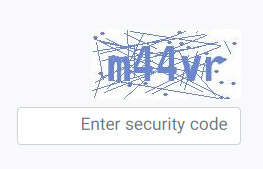
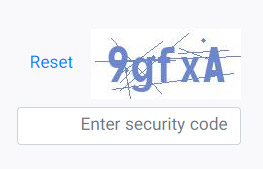
V1.1.0
Added support of Config file.
Added waves to captcha.
Some improvements & one bug fix.
README.md & screenshots updated.

Changed region(s): [[0.3346, 0.1775, 0.9125, 0.5621], [0.0913, 0.3254, 0.2738, 0.4142], [0.7605, 0.5325, 0.8821, 0.5917]]

diff --git a/ui/captcha/captcha.html b/ui/captcha/captcha.html
@@ -1,10 +1,11 @@
 <div class="row captcha">
-    <div class="col-md-12 mb-2 captcha-code">
+    <div class="col-md-12 mb-2">
         {{@captcha.code | raw}}
+        <button class="btn btn-link" onclick="this.previousElementSibling.src=this.previousElementSibling.src">Reset</button>
     </div>
-    <div class="col-md-4 col-sm-6">
+    <div class="col-lg-4 col-md-8">
         <div class="form-group">
-          <input type="text" name="captcha-entered-code" id="author" class="form-control captcha-text" placeholder="Enter security code" required>
+            <input type="text" name="{{@captcha.key}}" class="form-control" placeholder="Enter security code" required>
         </div>
     </div>
 </div>

diff --git a/lib/captcha.php b/lib/captcha.php
@@ -2,54 +2,74 @@
 
 /**
  * @package F3 Captcha
- * @version 1.0
- * @author Mohammad Yaghobi <info@darbeweb.ir>
+ * @version 1.1.0
+ * @link http://github.com/myaghobi/f3-captcha Github
+ * @author Mohammad Yaghobi <m.yaghobi.abc@gmail.com>
  * @copyright Copyright (c) 2020, Mohammad Yaghobi
  * @license http://www.gnu.org/licenses/gpl-3.0.html GPL v3
  */
 
 class Captcha extends \Prefab {
-  private $codeLength = 5;
-  private static $caseSensitive = true;
-  private $captchaWidth = 150;
-  private $captchaHeight = 70;
-  private $captchaFont = 'monofont.ttf';
-  private $captchaFontScale = 0.65;
-  private $color = "6d87cf";
-  private $letters = '123456789abcdefghijklmnopkrstuvwxyz';
-  private static $sessionKey = 'captcha_code';
-  
+  private $defaultLength = 5;
+  private static $defaultCaseSensitiveMode = true;
+  private $defaultWidth = 150;
+  private $defaultHeight = 70;
+  private $defaultFont = 'monofont.ttf';
+  private $defaultFontScale = 0.45;
+  private $defaultWavesEnable = false;
+  private $defaultLetters = '123456789abcdefghijklmnopkrstuvwxyz';
+  private static $defaultKey = 'captcha_code';
+
   /**
    * generate the output
    *
    * @return string
    */
-  function serve() {
-    $f3=Base::instance();
-    $f3->set('captcha.code', '<img src="'.$f3->get('BASE').'/captcha" width="'.$this->captchaWidth.'" height="'.$this->captchaHeight.'" >');
+  function serve($f3=null) {
+    if (!$f3) {
+      $f3=Base::instance();
+    }
+    
+    $width = $f3->get('captcha.WIDTH')?:$this->defaultWidth;
+    $height = $f3->get('captcha.HEIGHT')?:$this->defaultHeight;
+    $key = $f3->get('captcha.KEY')?:self::$defaultKey;
+
+    $f3->set('captcha.code', '<img src="' . $f3->get('BASE') . '/captcha" width="' . $width . '" height="' . $height . '" >');
+    $f3->set('captcha.key', $key);
     $output = \Template::instance()->render('captcha/captcha.html');
     $f3->clear('captcha');
     return $output;
   }
-  
-  
+
+
   /**
    * make the captcha image
    *
    * @return void
    */
-  function makeCaptchaImage() {
-    $f3=Base::instance();
-    $this->makeCaptchaCode($this->codeLength);
-    $captcha = $f3->get('SESSION.'.self::$sessionKey);
+  function makeCaptchaImage($f3=null) {
+    if (!$f3) {
+      $f3=Base::instance();
+    }
+    $this->makeCaptchaCode($f3);
+    
+    $width = $f3->get('captcha.WIDTH')?:$this->defaultWidth;
+    $height = $f3->get('captcha.HEIGHT')?:$this->defaultHeight;
+    $font = $f3->get('captcha.FONT')?:$this->defaultFont;
+    $fontScale = $f3->get('captcha.FONT_SCALE')?:$this->defaultFontScale;
+    $waves = $f3->get('captcha.WAVES')?:$this->defaultWavesEnable;
+    $key = $f3->get('captcha.KEY')?:self::$defaultKey;
 
-    $fontSize = $this->captchaHeight * $this->captchaFontScale;
-    $fontAddress = realpath($f3->get('UI')).'/fonts/'.$this->captchaFont;
+    $captcha = $f3->get('SESSION.' . $key);
 
-    $captchaImage = @imagecreate($this->captchaWidth, $this->captchaHeight);
+    $fontSize = $height * $fontScale;
+    $fontAddress = realpath($f3->get('UI')) . '/fonts/' . $font;
 
+    $captchaImage = @imagecreate($width, $height);
+
+    $color = '6d87cf';
     $backgroundColor = imagecolorallocate($captchaImage, 255, 255, 255);
-    $rgbColor = $this->hextorgb($this->color);
+    $rgbColor = $this->hextorgb($color);
     $textColor = imagecolorallocate(
       $captchaImage,
       $rgbColor['red'],
@@ -57,94 +77,157 @@ class Captcha extends \Prefab {
       $rgbColor['blue']
     );
 
-    $dotsNum = mt_rand(10, 40);
+    $dotsNum = mt_rand(0, 5);
     for ($i = 0; $i < $dotsNum; $i++) {
       imagefilledellipse(
         $captchaImage,
-        mt_rand(0, $this->captchaWidth),
-        mt_rand(0, $this->captchaHeight),
+        mt_rand(0, $width),
+        mt_rand(0, $height),
+        5,
         4,
-        3,
         $textColor
       );
     }
 
-    $linesNum = mt_rand(10, 40);
+    $linesNum = mt_rand(5, 10);
     for ($i = 0; $i < $linesNum; $i++) {
       imageline(
         $captchaImage,
-        mt_rand(0, $this->captchaWidth),
-        mt_rand(0, $this->captchaHeight),
-        mt_rand(0, $this->captchaWidth),
-        mt_rand(0, $this->captchaHeight),
+        mt_rand(0, $width),
+        mt_rand(0, $height),
+        mt_rand(0, $width),
+        mt_rand(0, $height),
         $textColor
       );
     }
 
     $text = imagettfbbox(
-      $fontSize, 0, $fontAddress, $captcha
+      $fontSize,
+      0,
+      $fontAddress,
+      $captcha
     );
 
-    $x = ($this->captchaWidth - $text[4]) / 2;
-    $y = ($this->captchaHeight - $text[5]) / 2;
+    $x = ($width - $text[4]) / 2;
+    $y = ($height - $text[5]) / 2;
 
     imagettftext(
-      $captchaImage, $fontSize, 0, $x, $y, $textColor, $fontAddress, $captcha
+      $captchaImage,
+      $fontSize,
+      0,
+      $x,
+      $y,
+      $textColor,
+      $fontAddress,
+      $captcha
     );
 
     ob_get_clean();
     ob_clean();
 
+    if ($waves) {
+      $this->wave_region($captchaImage, 0, 0, $width, $height, mt_rand(0, 7), 10);
+    }
+
     header('Content-Type: image/jpeg');
     imagejpeg($captchaImage);
     imagedestroy($captchaImage);
   }
-  
-  
+
+
+  /**
+   * wave_region
+   * Displays <a href="https://www.php.net/manual/en/function.imagecopy.php#72393">php.net</a>
+   * @link https://www.php.net/manual/en/function.imagecopy.php#72393 php.net
+   *
+   * @param  resource $img
+   * @param  int $x
+   * @param  int $y
+   * @param  int $width
+   * @param  int $height
+   * @param  float $amplitude
+   * @param  int $period
+   * @return void
+   */
+  function wave_region($img, $x, $y, $width, $height, $amplitude = 4.5, $period = 30) {
+    // Make a copy of the image twice the size
+    $mult = 2;
+    $img2 = imagecreatetruecolor($width * $mult, $height * $mult);
+    imagecopyresampled($img2, $img, 0, 0, $x, $y, $width * $mult, $height * $mult, $width, $height);
+
+    // Wave it
+    for ($i = 0; $i < ($width * $mult); $i += 2) {
+      imagecopy(
+        $img2,
+        $img2,
+        $x + $i - 2,
+        $y + sin($i / $period) * $amplitude,
+        $x + $i,
+        $y,
+        2,
+        ($height * $mult)
+      );
+    }
+
+    // Resample it down again
+    imagecopyresampled($img, $img2, $x, $y, 0, 0, $width, $height, $width * $mult, $height * $mult);
+    imagedestroy($img2);
+  }
+
   /**
    * make random code for captcha
    *
    * @param  integer $charactersLength
    * @return string
    */
-  function makeCaptchaCode($charactersLength) {
-    if (empty($charactersLength)) {
-      $charactersLength = $this->codeLength;
+  function makeCaptchaCode($f3=null) {
+    if (!$f3) {
+      $f3=Base::instance();
     }
-    $captcha='';
-    $letters = $this->letters;
+
+    $charactersLength = $f3->get('captcha.LENGTH')?:$this->defaultLength;
+    $caseSensitive = $f3->get('captcha.CASE_SENSITIVE')?:self::$defaultCaseSensitiveMode;
+    $key = $f3->get('captcha.KEY')?:self::$defaultKey;
+
+    $captcha = '';
+    $letters = $f3->get('captcha.LETTERS')?:$this->defaultLetters;
     $lettersLength = strlen($letters);
-    for ($i=0; $i<$charactersLength; $i++) {
-      $char = substr($this->letters, mt_rand(0, $lettersLength - 1), 1);
-      if (self::$caseSensitive && mt_rand(0, 10)<=3) {
+    for ($i = 0; $i < $charactersLength; $i++) {
+      $char = substr($letters, mt_rand(0, $lettersLength - 1), 1);
+      if ($caseSensitive && mt_rand(0, 10) <= 3) {
         $char = strtoupper($char);
       }
       $captcha .= $char;
     }
 
-    $f3=Base::instance();
-    $f3->set('SESSION.'.self::$sessionKey, str_replace(' ', '', $captcha));
+    $f3->set('SESSION.' . $key, str_replace(' ', '', $captcha));
     return $captcha;
   }
-  
+
   /**
    * verify the user entered security code
    *
    * @return boolean
    */
-  static function verify() {
-    $f3=Base::instance();
-    $enteredCode = $f3->get('POST.captcha-entered-code');
-    $savedCode = $f3->get('SESSION.'.self::$sessionKey);
+  static function verify($f3=null) {
+    if (!$f3) {
+      $f3=Base::instance();
+    }
+    
+    $key = $f3->get('captcha.KEY')?:self::$defaultKey;
+    $caseSensitive = $f3->get('captcha.CASE_SENSITIVE')?:self::$defaultCaseSensitiveMode;
 
-    if (self::$caseSensitive) {
+    $enteredCode = $f3->get('POST.'.$key);
+    $savedCode = $f3->get('SESSION.' . $key);
+
+    if ($caseSensitive) {
       return $savedCode == trim($enteredCode);
     }
 
-    return strcasecmp($savedCode, trim($enteredCode))==0;
+    return strcasecmp($savedCode, trim($enteredCode)) == 0;
   }
 
-    
+
   /**
    * hex color to rgb color
    *

diff --git a/README.md b/README.md
@@ -1,9 +1,23 @@
 # F3 Captcha
 A better captcha for Fat-Free Framework.
 
-The default captcha template contains the bootstrap class, which can look like this:
+![screenshot-english](screenshots/shot1.jpg?raw=true "F3 Captcha Screentshot-English Font") ![screenshot-persian](screenshots/shot2.jpg?raw=true "F3 Captcha Screentshot-Persian Font")
 
-![screenshot1](screenshots/shot1.jpg?raw=true "F3 Captcha Screentshot 1") ![screenshot2](screenshots/shot2.jpg?raw=true "F3 Captcha Screentshot 2")
+## Config
+This plugin is configurable via config file:
+``` ini
+[captcha]
+LENGTH=5
+CASE_SENSITIVE=TRUE
+WIDTH=150
+HEIGHT=70
+FONT=monofont.ttf
+FONT_SCALE=0.65
+WAVES=TRUE
+LETTERS=123456789abcdefghijklmnopkrstuvwxyz
+KEY=captcha_code
+```
+The above config is the default, you can ignore/remove each one you don't need to change.
 
 ## Usage
 
@@ -43,10 +57,10 @@ if (\Captcha::verify()) {
 ## Customization
 
 ### - Style
-There is some properties in `captcha.php` you may prefer to change. Also for more customization, check out `ui/captcha/captcha.html`.
+Default captcha template contains the bootstrap class which can change by developer, check out `ui/captcha/captcha.html`.
 
 ### - Font
-The default font is `monofont.ttf`, you can add your font in `ui/fonts/` and set the font name in `captcha.php`.
+The default font is `monofont.ttf`, you can add your font in `ui/fonts/` and set the font name in config file.
 
 
 ## License
